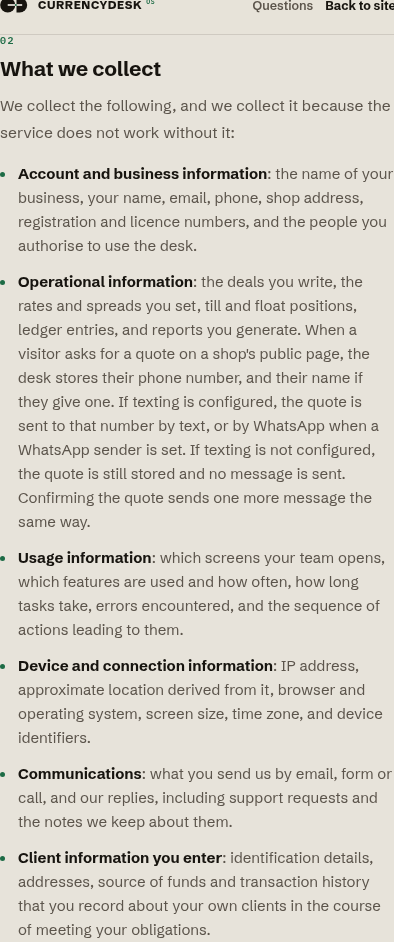
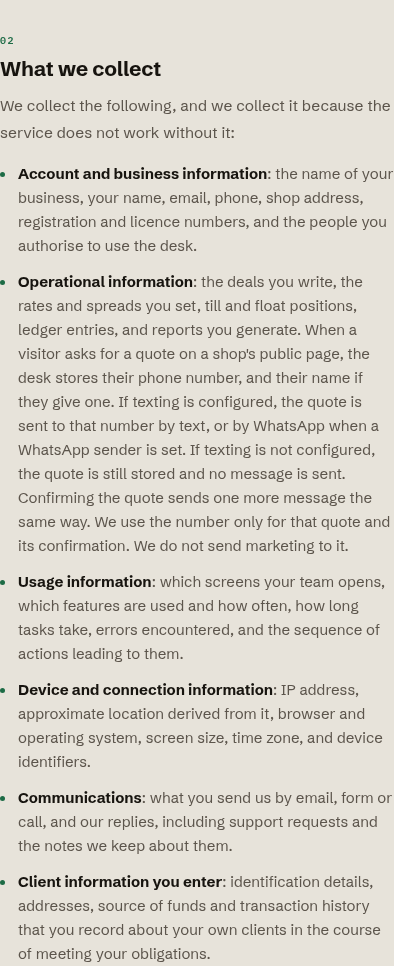
fix: limit a quote number to that quote, and name Cloudflare
A storefront quote number is used only for the quote and its confirmation. Privacy and Terms name Cloudflare as the service that delivers the website and sees visitor addresses and requests.

diff --git a/design/site/CurrencyDesk Legal.dc.html b/design/site/CurrencyDesk Legal.dc.html
@@ -129,7 +129,7 @@
         <p style="font-size: 15.5px; line-height: 1.68; color: var(--mute); margin: 12px 0 0;">We collect the following, and we collect it because the service does not work without it:</p>
         <div style="display: flex; flex-direction: column; gap: 12px; margin-top: 16px;">
           <div style="display: flex; gap: 13px; align-items: baseline;"><span style="width: 5px; height: 5px; border-radius: 50%; background: var(--green); flex: none; transform: translateY(-2px);"></span><span style="font-size: 15px; line-height: 1.6; color: var(--mute);"><b style="color: var(--ink); font-weight: 700;">Account and business information</b>: the name of your business, your name, email, phone, shop address, registration and licence numbers, and the people you authorise to use the desk.</span></div>
-          <div style="display: flex; gap: 13px; align-items: baseline;"><span style="width: 5px; height: 5px; border-radius: 50%; background: var(--green); flex: none; transform: translateY(-2px);"></span><span style="font-size: 15px; line-height: 1.6; color: var(--mute);"><b style="color: var(--ink); font-weight: 700;">Operational information</b>: the deals you write, the rates and spreads you set, till and float positions, ledger entries, and reports you generate. When a visitor asks for a quote on a shop's public page, the desk stores their phone number, and their name if they give one. If texting is configured, the quote is sent to that number by text, or by WhatsApp when a WhatsApp sender is set. If texting is not configured, the quote is still stored and no message is sent. Confirming the quote sends one more message the same way.</span></div>
+          <div style="display: flex; gap: 13px; align-items: baseline;"><span style="width: 5px; height: 5px; border-radius: 50%; background: var(--green); flex: none; transform: translateY(-2px);"></span><span style="font-size: 15px; line-height: 1.6; color: var(--mute);"><b style="color: var(--ink); font-weight: 700;">Operational information</b>: the deals you write, the rates and spreads you set, till and float positions, ledger entries, and reports you generate. When a visitor asks for a quote on a shop's public page, the desk stores their phone number, and their name if they give one. If texting is configured, the quote is sent to that number by text, or by WhatsApp when a WhatsApp sender is set. If texting is not configured, the quote is still stored and no message is sent. Confirming the quote sends one more message the same way. We use the number only for that quote and its confirmation. We do not send marketing to it.</span></div>
           <div style="display: flex; gap: 13px; align-items: baseline;"><span style="width: 5px; height: 5px; border-radius: 50%; background: var(--green); flex: none; transform: translateY(-2px);"></span><span style="font-size: 15px; line-height: 1.6; color: var(--mute);"><b style="color: var(--ink); font-weight: 700;">Usage information</b>: which screens your team opens, which features are used and how often, how long tasks take, errors encountered, and the sequence of actions leading to them.</span></div>
           <div style="display: flex; gap: 13px; align-items: baseline;"><span style="width: 5px; height: 5px; border-radius: 50%; background: var(--green); flex: none; transform: translateY(-2px);"></span><span style="font-size: 15px; line-height: 1.6; color: var(--mute);"><b style="color: var(--ink); font-weight: 700;">Device and connection information</b>: IP address, approximate location derived from it, browser and operating system, screen size, time zone, and device identifiers.</span></div>
           <div style="display: flex; gap: 13px; align-items: baseline;"><span style="width: 5px; height: 5px; border-radius: 50%; background: var(--green); flex: none; transform: translateY(-2px);"></span><span style="font-size: 15px; line-height: 1.6; color: var(--mute);"><b style="color: var(--ink); font-weight: 700;">Communications</b>: what you send us by email, form or call, and our replies, including support requests and the notes we keep about them.</span></div>
@@ -167,7 +167,7 @@
         <h3 style="font-size: 21px; font-weight: 700; letter-spacing: -0.01em; margin: 8px 0 0;">Who we share with</h3>
         <p style="font-size: 15.5px; line-height: 1.68; color: var(--mute); margin: 12px 0 0;">We share information only in these circumstances:</p>
         <div style="display: flex; flex-direction: column; gap: 12px; margin-top: 16px;">
-          <div style="display: flex; gap: 13px; align-items: baseline;"><span style="width: 5px; height: 5px; border-radius: 50%; background: var(--green); flex: none; transform: translateY(-2px);"></span><span style="font-size: 15px; line-height: 1.6; color: var(--mute);"><b style="color: var(--ink); font-weight: 700;">Service providers</b> we rely on: Render, for hosting in the United States; Neon, for the database; Resend, to send account and sign-in emails; Stripe, for billing; Twilio, to send sign up codes by text when that option is on, and to send a quote from a shop's public page by text or WhatsApp when texting is configured; and Google, to look up a business address during onboarding. For our own sales outreach we use Tavily for research and ElevenLabs for phone calls, which may be recorded. Each provider may use the information only to provide its service to us.</span></div>
+          <div style="display: flex; gap: 13px; align-items: baseline;"><span style="width: 5px; height: 5px; border-radius: 50%; background: var(--green); flex: none; transform: translateY(-2px);"></span><span style="font-size: 15px; line-height: 1.6; color: var(--mute);"><b style="color: var(--ink); font-weight: 700;">Service providers</b> we rely on: Render, for hosting in the United States; Neon, for the database; Resend, to send account and sign-in emails; Stripe, for billing; Twilio, to send sign up codes by text when that option is on, and to send a quote from a shop's public page by text or WhatsApp when texting is configured; and Google, to look up a business address during onboarding. Cloudflare, to deliver and protect the website. It sees visitors' IP addresses and requests. For our own sales outreach we use Tavily for research and ElevenLabs for phone calls, which may be recorded. Each provider may use the information only to provide its service to us.</span></div>
           <div style="display: flex; gap: 13px; align-items: baseline;"><span style="width: 5px; height: 5px; border-radius: 50%; background: var(--green); flex: none; transform: translateY(-2px);"></span><span style="font-size: 15px; line-height: 1.6; color: var(--mute);"><b style="color: var(--ink); font-weight: 700;">Authorities</b>, where we are required by law, court order or a valid regulatory demand. Where we are permitted to tell you, we will.</span></div>
           <div style="display: flex; gap: 13px; align-items: baseline;"><span style="width: 5px; height: 5px; border-radius: 50%; background: var(--green); flex: none; transform: translateY(-2px);"></span><span style="font-size: 15px; line-height: 1.6; color: var(--mute);"><b style="color: var(--ink); font-weight: 700;">A successor</b>, if CurrencyDesk is involved in a merger, acquisition, financing or sale of assets. This policy continues to apply until you are told otherwise.</span></div>
         </div>
@@ -271,7 +271,7 @@
       <div id="t8" data-sec="true" style="scroll-margin-top: 90px; padding: 34px 0 0;">
         <div style="font-family: var(--m); font-size: 10px; letter-spacing: 0.16em; text-transform: uppercase; color: var(--green); font-weight: 600;">08</div>
         <h3 style="font-size: 21px; font-weight: 700; letter-spacing: -0.01em; margin: 8px 0 0;">Third-party services</h3>
-        <p style="font-size: 15.5px; line-height: 1.68; color: var(--mute); margin: 12px 0 0;">Service providers we rely on: Render, for hosting in the United States; Neon, for the database; Resend, to send account and sign-in emails; Stripe, for billing; Twilio, to send sign up codes by text when that option is on, and to send a quote from a shop's public page by text or WhatsApp when texting is configured; and Google, to look up a business address during onboarding. For our own sales outreach we use Tavily for research and ElevenLabs for phone calls, which may be recorded. Each provider may use the information only to provide its service to us. We do not warrant the accuracy, availability or fitness of any outside service the desk may use later, and we are not liable for its acts or omissions.</p>
+        <p style="font-size: 15.5px; line-height: 1.68; color: var(--mute); margin: 12px 0 0;">Service providers we rely on: Render, for hosting in the United States; Neon, for the database; Resend, to send account and sign-in emails; Stripe, for billing; Twilio, to send sign up codes by text when that option is on, and to send a quote from a shop's public page by text or WhatsApp when texting is configured; and Google, to look up a business address during onboarding. Cloudflare, to deliver and protect the website. It sees visitors' IP addresses and requests. For our own sales outreach we use Tavily for research and ElevenLabs for phone calls, which may be recorded. Each provider may use the information only to provide its service to us. We do not warrant the accuracy, availability or fitness of any outside service the desk may use later, and we are not liable for its acts or omissions.</p>
       </div>
 
       <div id="t9" data-sec="true" style="scroll-margin-top: 90px; padding: 34px 0 0;">

diff --git a/web/legal.html b/web/legal.html
@@ -140,7 +140,7 @@
         <p style="font-size: 15.5px; line-height: 1.68; color: var(--mute); margin: 12px 0 0;">We collect the following, and we collect it because the service does not work without it:</p>
         <div style="display: flex; flex-direction: column; gap: 12px; margin-top: 16px;">
           <div style="display: flex; gap: 13px; align-items: baseline;"><span style="width: 5px; height: 5px; border-radius: 50%; background: var(--green); flex: none; transform: translateY(-2px);"></span><span style="font-size: 15px; line-height: 1.6; color: var(--mute);"><b style="color: var(--ink); font-weight: 700;">Account and business information</b>: the name of your business, your name, email, phone, shop address, registration and licence numbers, and the people you authorise to use the desk.</span></div>
-          <div style="display: flex; gap: 13px; align-items: baseline;"><span style="width: 5px; height: 5px; border-radius: 50%; background: var(--green); flex: none; transform: translateY(-2px);"></span><span style="font-size: 15px; line-height: 1.6; color: var(--mute);"><b style="color: var(--ink); font-weight: 700;">Operational information</b>: the deals you write, the rates and spreads you set, till and float positions, ledger entries, and reports you generate. When a visitor asks for a quote on a shop's public page, the desk stores their phone number, and their name if they give one. If texting is configured, the quote is sent to that number by text, or by WhatsApp when a WhatsApp sender is set. If texting is not configured, the quote is still stored and no message is sent. Confirming the quote sends one more message the same way.</span></div>
+          <div style="display: flex; gap: 13px; align-items: baseline;"><span style="width: 5px; height: 5px; border-radius: 50%; background: var(--green); flex: none; transform: translateY(-2px);"></span><span style="font-size: 15px; line-height: 1.6; color: var(--mute);"><b style="color: var(--ink); font-weight: 700;">Operational information</b>: the deals you write, the rates and spreads you set, till and float positions, ledger entries, and reports you generate. When a visitor asks for a quote on a shop's public page, the desk stores their phone number, and their name if they give one. If texting is configured, the quote is sent to that number by text, or by WhatsApp when a WhatsApp sender is set. If texting is not configured, the quote is still stored and no message is sent. Confirming the quote sends one more message the same way. We use the number only for that quote and its confirmation. We do not send marketing to it.</span></div>
           <div style="display: flex; gap: 13px; align-items: baseline;"><span style="width: 5px; height: 5px; border-radius: 50%; background: var(--green); flex: none; transform: translateY(-2px);"></span><span style="font-size: 15px; line-height: 1.6; color: var(--mute);"><b style="color: var(--ink); font-weight: 700;">Usage information</b>: which screens your team opens, which features are used and how often, how long tasks take, errors encountered, and the sequence of actions leading to them.</span></div>
           <div style="display: flex; gap: 13px; align-items: baseline;"><span style="width: 5px; height: 5px; border-radius: 50%; background: var(--green); flex: none; transform: translateY(-2px);"></span><span style="font-size: 15px; line-height: 1.6; color: var(--mute);"><b style="color: var(--ink); font-weight: 700;">Device and connection information</b>: IP address, approximate location derived from it, browser and operating system, screen size, time zone, and device identifiers.</span></div>
           <div style="display: flex; gap: 13px; align-items: baseline;"><span style="width: 5px; height: 5px; border-radius: 50%; background: var(--green); flex: none; transform: translateY(-2px);"></span><span style="font-size: 15px; line-height: 1.6; color: var(--mute);"><b style="color: var(--ink); font-weight: 700;">Communications</b>: what you send us by email, form or call, and our replies, including support requests and the notes we keep about them.</span></div>
@@ -178,7 +178,7 @@
         <h3 style="font-size: 21px; font-weight: 700; letter-spacing: -0.01em; margin: 8px 0 0;">Who we share with</h3>
         <p style="font-size: 15.5px; line-height: 1.68; color: var(--mute); margin: 12px 0 0;">We share information only in these circumstances:</p>
         <div style="display: flex; flex-direction: column; gap: 12px; margin-top: 16px;">
-          <div style="display: flex; gap: 13px; align-items: baseline;"><span style="width: 5px; height: 5px; border-radius: 50%; background: var(--green); flex: none; transform: translateY(-2px);"></span><span style="font-size: 15px; line-height: 1.6; color: var(--mute);"><b style="color: var(--ink); font-weight: 700;">Service providers</b> we rely on: Render, for hosting in the United States; Neon, for the database; Resend, to send account and sign-in emails; Stripe, for billing; Twilio, to send sign up codes by text when that option is on, and to send a quote from a shop's public page by text or WhatsApp when texting is configured; and Google, to look up a business address during onboarding. For our own sales outreach we use Tavily for research and ElevenLabs for phone calls, which may be recorded. Each provider may use the information only to provide its service to us.</span></div>
+          <div style="display: flex; gap: 13px; align-items: baseline;"><span style="width: 5px; height: 5px; border-radius: 50%; background: var(--green); flex: none; transform: translateY(-2px);"></span><span style="font-size: 15px; line-height: 1.6; color: var(--mute);"><b style="color: var(--ink); font-weight: 700;">Service providers</b> we rely on: Render, for hosting in the United States; Neon, for the database; Resend, to send account and sign-in emails; Stripe, for billing; Twilio, to send sign up codes by text when that option is on, and to send a quote from a shop's public page by text or WhatsApp when texting is configured; and Google, to look up a business address during onboarding. Cloudflare, to deliver and protect the website. It sees visitors' IP addresses and requests. For our own sales outreach we use Tavily for research and ElevenLabs for phone calls, which may be recorded. Each provider may use the information only to provide its service to us.</span></div>
           <div style="display: flex; gap: 13px; align-items: baseline;"><span style="width: 5px; height: 5px; border-radius: 50%; background: var(--green); flex: none; transform: translateY(-2px);"></span><span style="font-size: 15px; line-height: 1.6; color: var(--mute);"><b style="color: var(--ink); font-weight: 700;">Authorities</b>, where we are required by law, court order or a valid regulatory demand. Where we are permitted to tell you, we will.</span></div>
           <div style="display: flex; gap: 13px; align-items: baseline;"><span style="width: 5px; height: 5px; border-radius: 50%; background: var(--green); flex: none; transform: translateY(-2px);"></span><span style="font-size: 15px; line-height: 1.6; color: var(--mute);"><b style="color: var(--ink); font-weight: 700;">A successor</b>, if CurrencyDesk is involved in a merger, acquisition, financing or sale of assets. This policy continues to apply until you are told otherwise.</span></div>
         </div>
@@ -282,7 +282,7 @@
       <div id="t8" data-sec="true" style="scroll-margin-top: 90px; padding: 34px 0 0;">
         <div style="font-family: var(--m); font-size: 10px; letter-spacing: 0.16em; text-transform: uppercase; color: var(--green); font-weight: 600;">08</div>
         <h3 style="font-size: 21px; font-weight: 700; letter-spacing: -0.01em; margin: 8px 0 0;">Third-party services</h3>
-        <p style="font-size: 15.5px; line-height: 1.68; color: var(--mute); margin: 12px 0 0;">Service providers we rely on: Render, for hosting in the United States; Neon, for the database; Resend, to send account and sign-in emails; Stripe, for billing; Twilio, to send sign up codes by text when that option is on, and to send a quote from a shop's public page by text or WhatsApp when texting is configured; and Google, to look up a business address during onboarding. For our own sales outreach we use Tavily for research and ElevenLabs for phone calls, which may be recorded. Each provider may use the information only to provide its service to us. We do not warrant the accuracy, availability or fitness of any outside service the desk may use later, and we are not liable for its acts or omissions.</p>
+        <p style="font-size: 15.5px; line-height: 1.68; color: var(--mute); margin: 12px 0 0;">Service providers we rely on: Render, for hosting in the United States; Neon, for the database; Resend, to send account and sign-in emails; Stripe, for billing; Twilio, to send sign up codes by text when that option is on, and to send a quote from a shop's public page by text or WhatsApp when texting is configured; and Google, to look up a business address during onboarding. Cloudflare, to deliver and protect the website. It sees visitors' IP addresses and requests. For our own sales outreach we use Tavily for research and ElevenLabs for phone calls, which may be recorded. Each provider may use the information only to provide its service to us. We do not warrant the accuracy, availability or fitness of any outside service the desk may use later, and we are not liable for its acts or omissions.</p>
       </div>
 
       <div id="t9" data-sec="true" style="scroll-margin-top: 90px; padding: 34px 0 0;">

diff --git a/server/tests/public-claims.test.ts b/server/tests/public-claims.test.ts
@@ -547,6 +547,8 @@ describe("public marketing claims", () => {
     expect(home).not.toContain("PS Act class");
     expect(home).toContain("spec:'Not tracked'");
     expect(legal).toContain("When a visitor asks for a quote on a shop's public page, the desk stores their phone number, and their name if they give one.");
+    expect(legal).toContain("We use the number only for that quote and its confirmation. We do not send marketing to it.");
+    expect(legal).toContain("Cloudflare, to deliver and protect the website. It sees visitors' IP addresses and requests.");
     expect(legal).toContain("If texting is configured, the quote is sent to that number by text, or by WhatsApp when a WhatsApp sender is set.");
     expect(legal).not.toContain("Texting is not connected, so the desk does not send messages to your clients.");
     expect(faq).toContain("The desk gives you a worksheet to prepare a suspicious transaction report. It never sends it. A person at your business decides and files it with FINTRAC.");

diff --git a/docs/PROJECT_STATE.md b/docs/PROJECT_STATE.md
@@ -953,8 +953,10 @@ The pages do not name a Neon region. Privacy section 8 shows
 [Data processing terms with Render and Neon: to confirm]. The placeholder is followed by a period. The
 desk does not delete records on a schedule while the account is
 open, and keeping them for the statutory period is the shop's
-obligation. The pages also name Resend,
-Stripe, Twilio, Google, Tavily, and ElevenLabs. Admin changes are
+obligation. The pages also name Cloudflare, Resend,
+Stripe, Twilio, Google, Tavily, and ElevenLabs. A storefront quote
+number is used only for that quote and its confirmation, and the
+pages say the desk does not send marketing to it. Admin changes are
 logged. Admin reads are not described as logged. Texting is not
 connected. Sanctions screening is not connected. The AI copilot
 is marked coming soon, not included yet, with a neutral chip,
